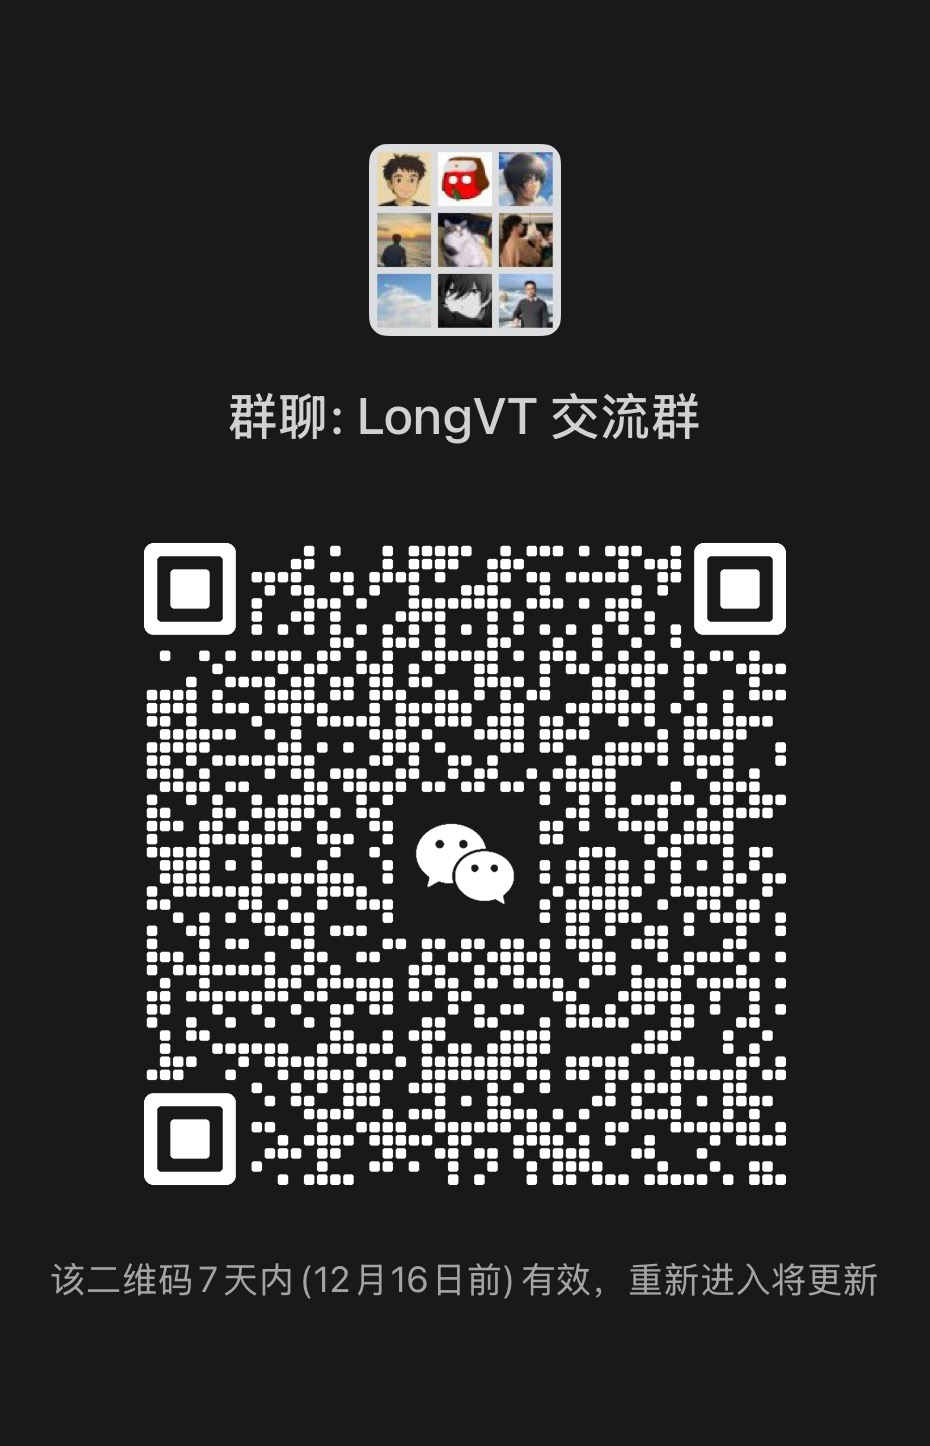
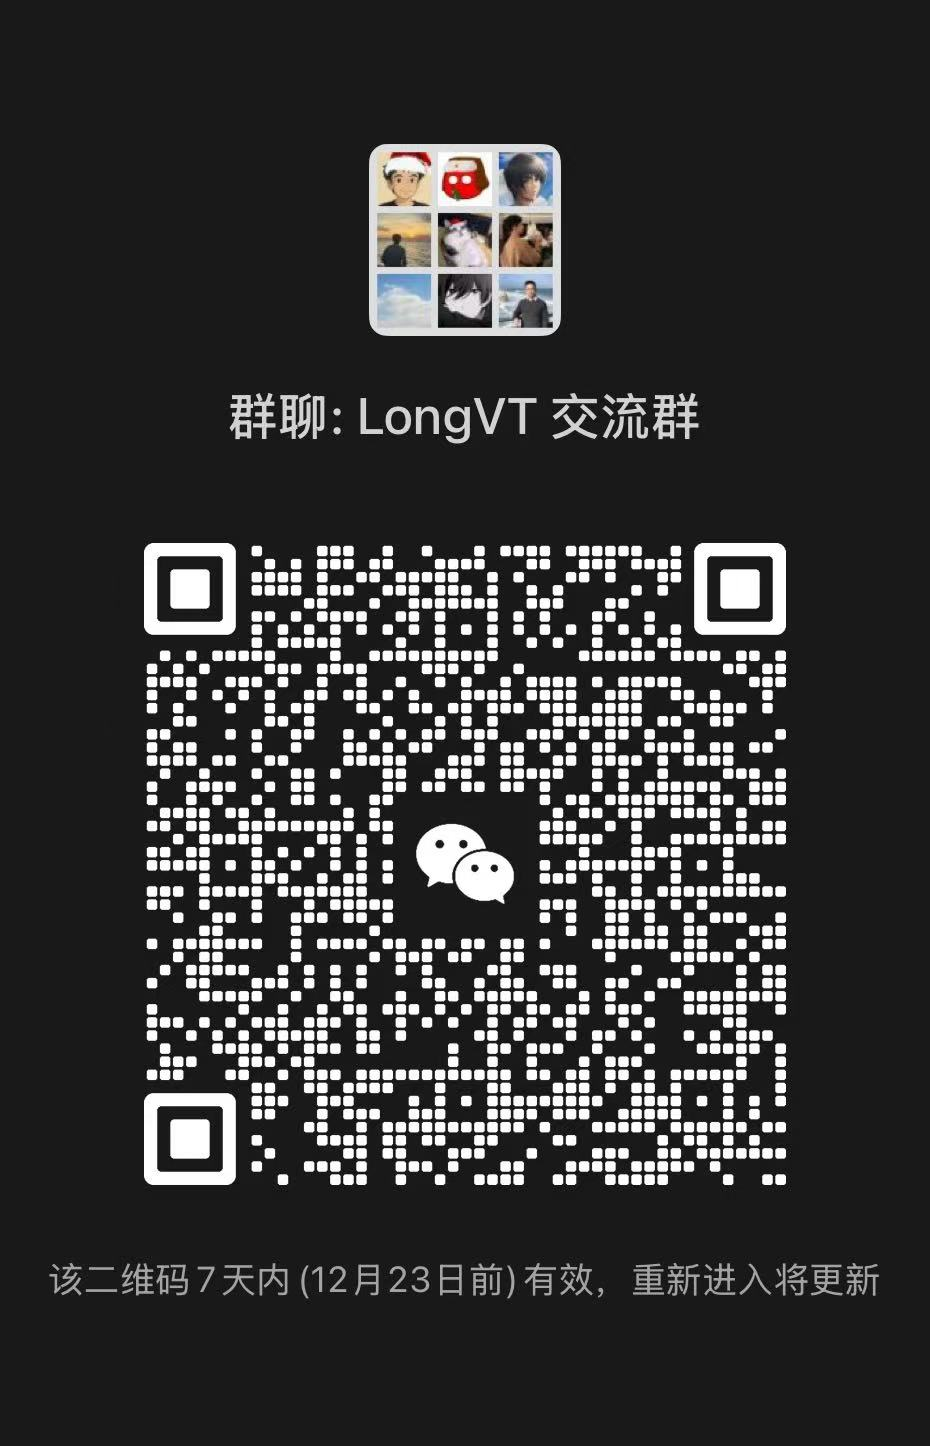
docs: update README wording and refresh WeChat QR code

diff --git a/README.md b/README.md
@@ -19,7 +19,7 @@
 </div>
 
 ## 🎉 News
-- **[2025-12-10]**: We are invited to BAAI Live Talk! Check out the [Slides & Recording](https://event.baai.ac.cn/activities/983).
+- **[2025-12-10]**: We are invited to BAAI Talk! Check out the [slides and recording](https://event.baai.ac.cn/activities/983).
 - **[2025-12-07]**: We won the 🏆 **Top \#2 Daily Paper** (on Dec 02, 2025) and **Top \#3 Weekly Paper** (by Dec 07, 2025) on Hugging Face! Check out the [LongVT Paper Page](https://huggingface.co/papers/2511.20785)!
 - **[2025-12-02]**: We created fun cartoons ([Conan_EN](https://drive.google.com/file/d/1sk9YfmtcQq0nLlI5K_G3BOziRSEjMMT0/view?usp=sharing) | [Conan_CN](https://drive.google.com/file/d/14MJEN_FBRJNJ9IYWK-fs4IbZZSgvKGAw/view?usp=sharing)) to explain LongVT. Enjoy :) Credit to the amazing [NotebookLM](https://notebooklm.google.com/) and [Gemini-3](https://blog.google/products/gemini/gemini-3/#learn-anything).
 - **[2025-12-02]**: Join our WeChat group by scanning this [QR code](assets/qr_code.jpg).
